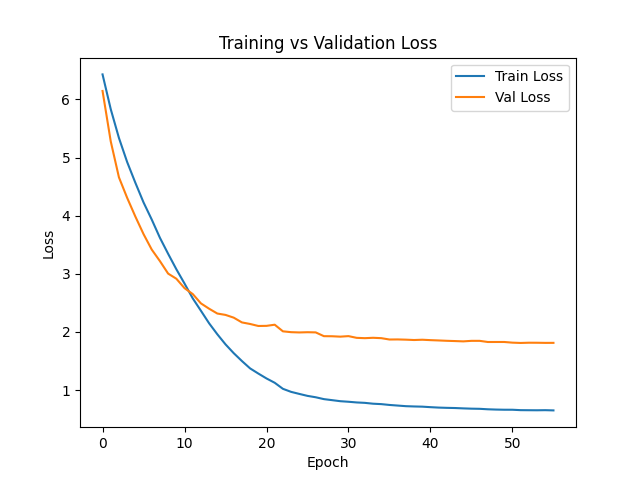
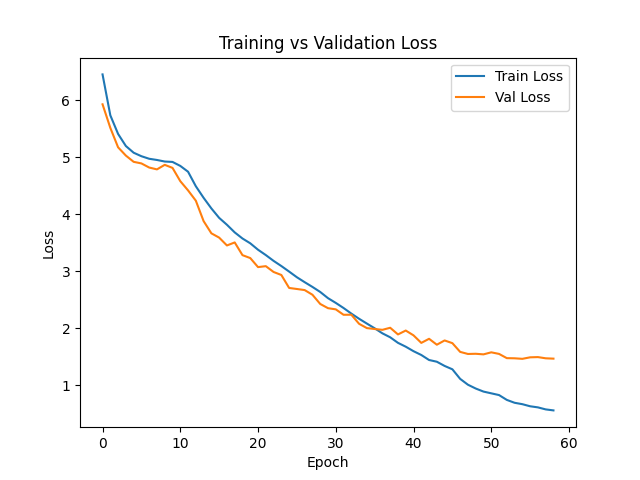
Much better improvement from model 11s classification

diff --git a/ModelEvaluation.py b/ModelEvaluation.py
@@ -1,0 +1,44 @@
+import tensorflow as tf
+from sklearn.metrics import classification_report, confusion_matrix
+import numpy as np
+import matplotlib.pyplot as plt
+
+# Load model
+model = tf.keras.models.load_model('Dexter_PokemonGen1Ai.h5')
+
+dataset_path = "FullSplitAugPokemonDataGen1"
+test_dataset = tf.keras.preprocessing.image_dataset_from_directory(
+    dataset_path + '/test',
+    image_size=(224, 224),
+    batch_size=64,
+    label_mode='int',
+    shuffle=False
+)
+#Get true labels and predictions
+y_true = []
+y_pred = []
+for images, labels in test_dataset:
+    y_true.extend(labels.numpy())  
+    predictions = model.predict(images)
+    y_pred.extend(np.argmax(predictions, axis=1))
+
+#Save classification report
+report = classification_report(y_true, y_pred, target_names=test_dataset.class_names, digits=4)
+with open("classification_report.txt", "w") as f:
+    f.write(report)
+
+#Plot confusion matrix
+conf_matrix = confusion_matrix(y_true, y_pred)
+fig, ax = plt.subplots(figsize=(15, 12))
+ax.matshow(conf_matrix, cmap="Blues")
+for i in range(conf_matrix.shape[0]):
+    for j in range(conf_matrix.shape[1]):
+        ax.text(j, i, str(conf_matrix[i, j]), ha='center', va='center', color='black', fontsize=6)
+
+plt.xlabel("Predicted Label")
+plt.ylabel("True Label")
+plt.title("Confusion Matrix")
+plt.xticks(ticks=np.arange(len(test_dataset.class_names)), labels=test_dataset.class_names, rotation=90, fontsize=6)
+plt.yticks(ticks=np.arange(len(test_dataset.class_names)), labels=test_dataset.class_names, fontsize=6)
+plt.savefig("confusion_matrix.png", dpi=300, bbox_inches='tight')
+plt.show()

diff --git a/ModelTraining.py b/ModelTraining.py
@@ -28,7 +28,7 @@ def normalize_image(image, label):
     return image / 255.0, label
 
 
-dataset_path = "SplitMoreProcessedPokemonDataGen1"
+dataset_path = "FullSplitAugPokemonDataGen1"
 
 #Load Training Data
 train_dataset = tf.keras.preprocessing.image_dataset_from_directory(
@@ -115,7 +115,7 @@ model = tf.keras.Sequential([
 ])
 
 #Compile the model start with smaller learning rate for stability
-model.compile(optimizer=tf.keras.optimizers.Adam(learning_rate= 0.0001),
+model.compile(optimizer=tf.keras.optimizers.Adam(learning_rate= 0.001),
               loss='sparse_categorical_crossentropy',
               metrics=['accuracy'])
 

diff --git a/README.md b/README.md
@@ -16,7 +16,7 @@ Some Data augmentation was later done for more accuracy.
 Note: can probably get better results if data is more properly cropped.
 
 Currently During Model training data is still overfitting results getting better as more modifications done.
-So far the best model is of  73.08% accuracy model#11 was renamed to become main.
+So far the best model is of  73.18% accuracy model#11 was renamed to become main.
 Can View Track.txt for tryouts.
 
 List of things to do now:
